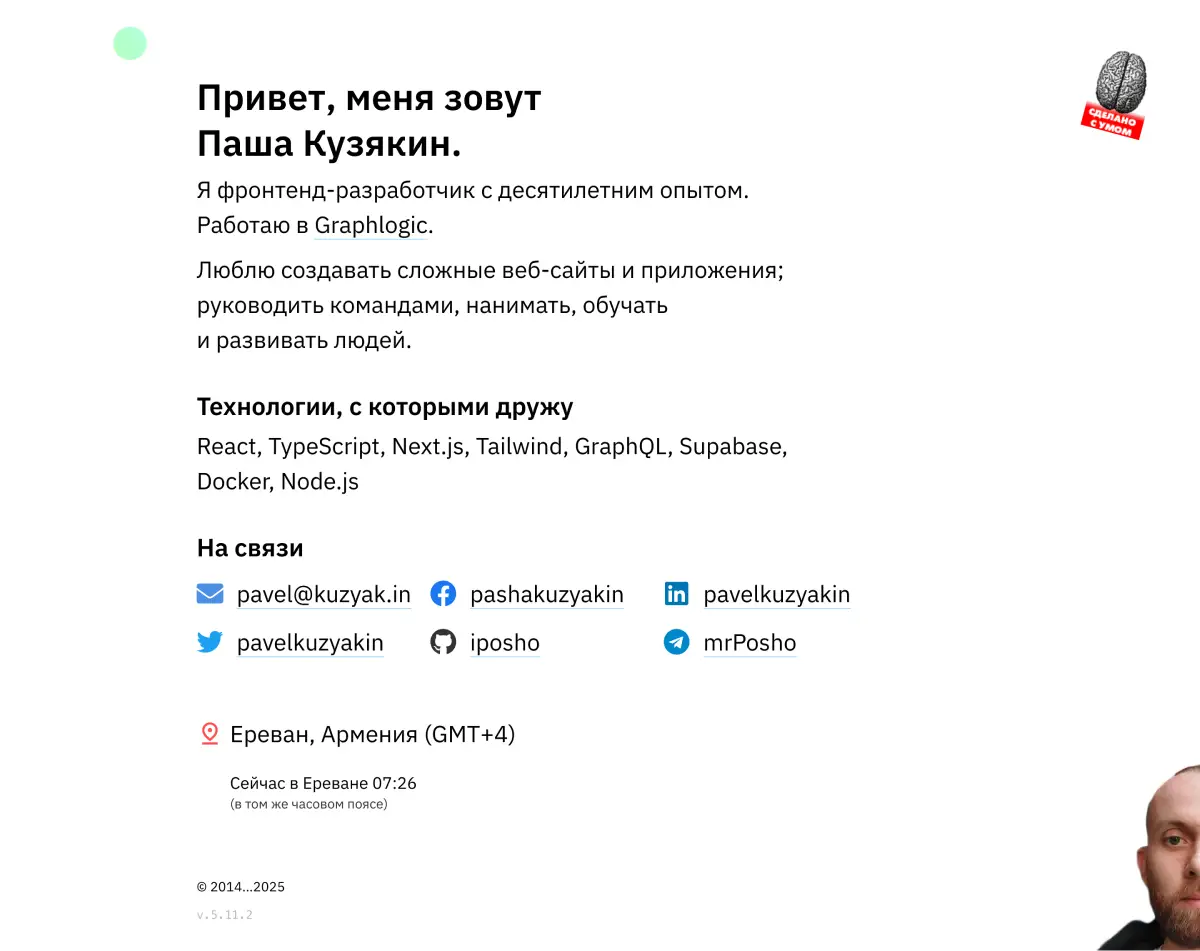
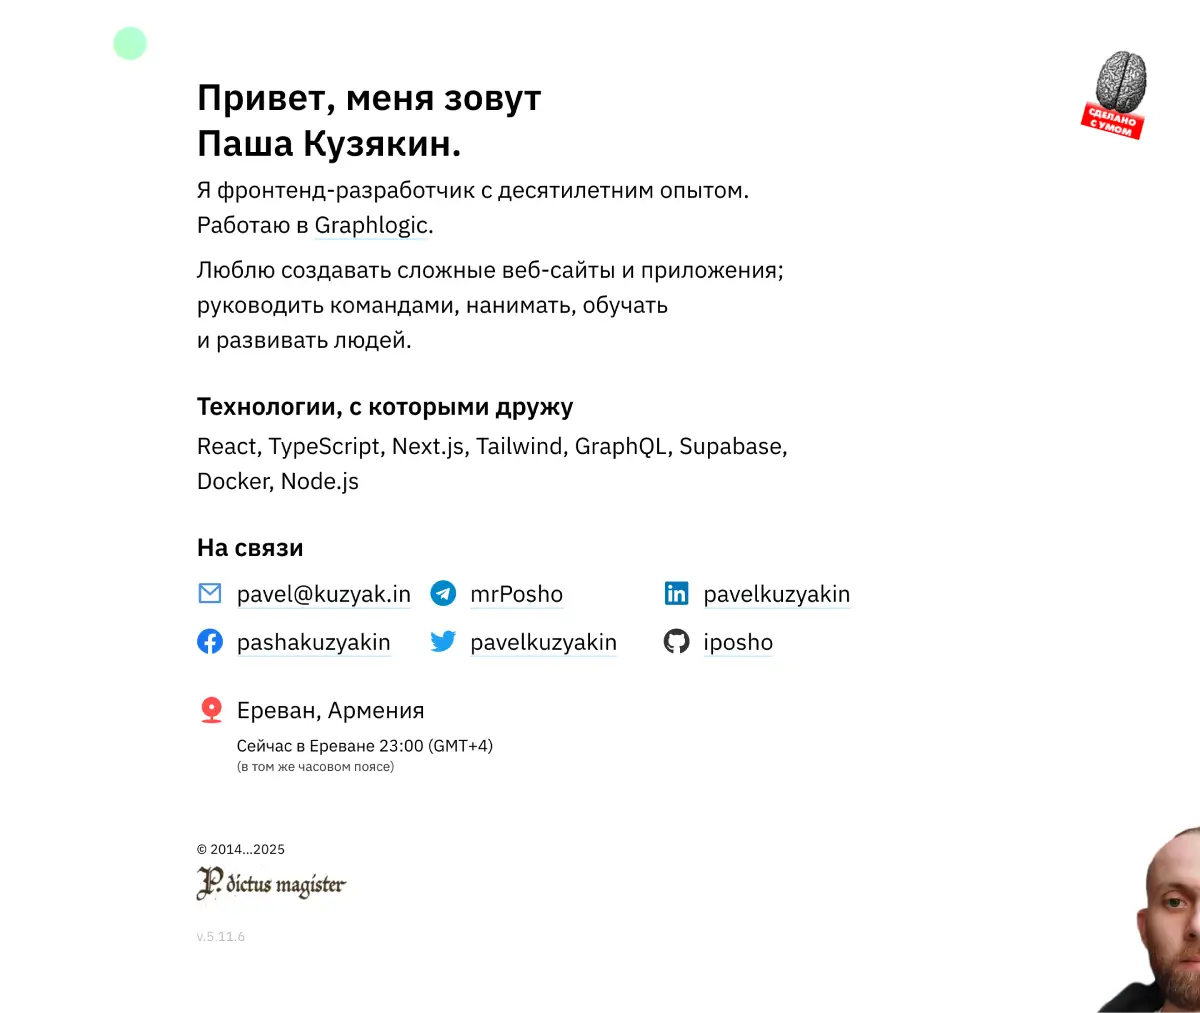
Update Footer signature alt text and add 'use client' directive
Updated the alt text of the signature image in Footer for better clarity and specificity. Added the 'use client' directive to the TimeInYerevan component, ensuring compatibility with client-side rendering.

diff --git a/src/components/ui/TimeInYerevan/TimeInYerevan.tsx b/src/components/ui/TimeInYerevan/TimeInYerevan.tsx
@@ -1,3 +1,7 @@
+'use client';
+
+import { useState, useEffect } from 'react';
+
 import css from './TimeInYerevan.module.scss';
 
 function pluralize(n: number, forms: [string, string, string]): string {
@@ -10,26 +14,37 @@ function pluralize(n: number, forms: [string, string, string]): string {
 }
 
 function TimeInYerevan() {
-  const now = new Date();
-  const yerevanTime = new Date(now.toLocaleString('en-US', { timeZone: 'Asia/Yerevan' }));
+  const [time, setTime] = useState<string>('');
+  const [timeDiff, setTimeDiff] = useState<string>('');
 
-  const hours = yerevanTime.getHours().toString().padStart(2, '0');
-  const minutes = yerevanTime.getMinutes().toString().padStart(2, '0');
-  const time = `${hours}:${minutes}`;
+  useEffect(() => {
+    const updateTime = () => {
+      const now = new Date();
+      const yerevanTime = new Date(now.toLocaleString('en-US', { timeZone: 'Asia/Yerevan' }));
 
-  // Вычисляем разницу во времени
-  const userOffset = now.getTimezoneOffset();
-  const yerevanOffset = -240; // GMT+4 в минутах
-  const diff = (yerevanOffset - userOffset) / 60;
+      const hours = yerevanTime.getHours().toString().padStart(2, '0');
+      const minutes = yerevanTime.getMinutes().toString().padStart(2, '0');
+      setTime(`${hours}:${minutes}`);
 
-  let timeDiff = '';
-  if (diff > 0) {
-    timeDiff = `на ${diff} ${pluralize(diff, ['час', 'часа', 'часов'])} позже`;
-  } else if (diff < 0) {
-    timeDiff = `на ${Math.abs(diff)} ${pluralize(Math.abs(diff), ['час', 'часа', 'часов'])} раньше`;
-  } else {
-    timeDiff = 'в том же часовом поясе';
-  }
+      // Вычисляем разницу во времени
+      const userOffset = now.getTimezoneOffset();
+      const yerevanOffset = -240; // GMT+4 в минутах
+      const diff = (yerevanOffset - userOffset) / 60;
+
+      if (diff > 0) {
+        setTimeDiff(`на ${diff} ${pluralize(diff, ['час', 'часа', 'часов'])} позже`);
+      } else if (diff < 0) {
+        setTimeDiff(`на ${Math.abs(diff)} ${pluralize(Math.abs(diff), ['час', 'часа', 'часов'])} раньше`);
+      } else {
+        setTimeDiff('в том же часовом поясе');
+      }
+    };
+
+    updateTime();
+    const interval = setInterval(updateTime, 1000);
+
+    return () => clearInterval(interval);
+  }, []);
 
   return (
     <div className={css.time}>

diff --git a/src/components/ui/EasterEgg/EasterEgg.tsx b/src/components/ui/EasterEgg/EasterEgg.tsx
@@ -4,6 +4,8 @@
 
 import { useEffect, useState } from 'react';
 
+import { LAST_UPDATE_DATE } from '@/constants/base';
+
 import '@/styles/globals.scss';
 
 export function EasterEgg() {
@@ -26,6 +28,14 @@ export function EasterEgg() {
   };
 
   if (!showMessage) return null;
+
+  const formattedDate = LAST_UPDATE_DATE.toLocaleString('ru-RU', {
+    day: 'numeric',
+    month: 'long',
+    year: 'numeric',
+    hour: '2-digit',
+    minute: '2-digit',
+  });
 
   return (
     <button
@@ -53,7 +63,7 @@ export function EasterEgg() {
         (e.currentTarget as HTMLElement).style.opacity = '1';
       }}
     >
-      🌘 Паша хуячит этот сайт ночью 18 апреля 2025 года в 3:24.
+      {`🌘 Паша хуячит этот сайт ночью ${formattedDate}.`}
     </button>
   );
 }

diff --git a/src/components/layout/Footer/Footer.tsx b/src/components/layout/Footer/Footer.tsx
@@ -20,10 +20,11 @@ export const Footer: FC = () => (
         {`© ${COPYRIGHT_START_YEAR}...${CURRENT_YEAR}`}
         <Image
           src="/images/signString.webp"
-          alt="Signature"
+          alt="Signature: P. dictus magister"
           className={css.signature}
           width={220}
           height={54}
+          priority={false}
         />
       </p>
 

diff --git a/src/constants/base.ts b/src/constants/base.ts
@@ -14,4 +14,5 @@ export const REPOSITORY_URL = packageJson?.repository?.url || 'https://github.co
 
 export const COPYRIGHT_START_YEAR = 2014;
 export const CURRENT_YEAR = new Date().getFullYear();
+export const LAST_UPDATE_DATE = new Date(process.env.NEXT_PUBLIC_BUILD_DATE || new Date().toISOString());
 export const CONTACT_EMAIL = 'pavel@kuzyak.in';

diff --git a/next.config.js b/next.config.js
@@ -12,7 +12,7 @@ const nextConfig = {
   },
   env: {
     YANDEX_METRIKA_ID: process.env.YANDEX_METRIKA_ID,
-    BUILD_DATE: buildDate,
+    BUILD_DATE: process.env.BUILD_DATE || buildDate,
   },
   images: {
     remotePatterns: [

diff --git a/README.md b/README.md
@@ -16,9 +16,6 @@ Made for myself, usually at night with an incredible amount of ☕.
 
 This is a [Next.js](https://nextjs.org/) project bootstrapped with [`create-next-app`](https://github.com/vercel/next.js/tree/canary/packages/create-next-app).
 
-
-
-
 ## Installing / Getting started
 
 ```shell
@@ -30,13 +27,74 @@ $ echo "YANDEX_METRIKA_ID=YOUR_YANDEX_METRIKA_ID" >> .env.local
 $ npm run dev
 ```
 
-## Achievments
+## Technologies and Tools
 
-<img src="public/images/awicons/award.webp" /> <img src="public/images/awicons/typewriter.webp" /> <img src="public/images/awicons/smu.webp" />
+- [Next.js](https://nextjs.org/) - React framework
+- [TypeScript](https://www.typescriptlang.org/) - Typed JavaScript
+- [Sass](https://sass-lang.com/) - CSS preprocessor
+- [ESLint](https://eslint.org/) - JavaScript/TypeScript linter
+- [Stylelint](https://stylelint.io/) - CSS/SCSS linter
+- [Husky](https://typicode.github.io/husky/) - Git hooks
+- [Luxon](https://moment.github.io/luxon/) - Date handling
+- [Vercel Analytics](https://vercel.com/analytics) - Analytics
+- [Vercel Speed Insights](https://vercel.com/speed-insights) - Performance monitoring
+
+## Available Scripts
+
+```shell
+# Run in development mode
+$ npm run dev
+
+# Build for production
+$ npm run build
+
+# Run in production
+$ npm run start
+
+# Run linters
+$ npm run lint
+$ npm run stylelint
+
+# Automatically fix issues
+$ npm run lint:fix
+```
+
+## Project Structure
+
+```
+kuzyak.in/
+├── public/          # Static files
+├── src/             # Source code
+│   ├── app/         # Next.js App Router
+│   ├── components/  # React components
+│   └── styles/      # Styles
+├── .husky/          # Git hooks
+└── ...              # Configuration files
+```
+
+## Environment Variables
+
+Create `.env.local` based on `.env.example`:
+
+```shell
+YANDEX_METRIKA_ID=your_metrika_id
+```
+
+## Development and Deployment
+
+1. Fork the repository
+2. Create your feature branch (`git checkout -b feature/amazing-feature`)
+3. Commit your changes (`git commit -m 'Add some amazing feature'`)
+4. Push to the branch (`git push origin feature/amazing-feature`)
+5. Open a Pull Request
+
+## Contributing
+
+Contributions are welcome! If you have any ideas for improvements, feel free to create issues or pull requests.
 
 ## Licensing
 
 This project is licensed under the terms of the [MIT License](LICENSE).
 
-<br/>
+<br/><br/>
 <img src="public/images/signature.webp" width="180" />
